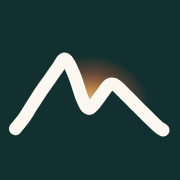
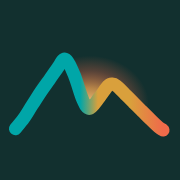
Pitons mark: line carries the ring's teal, gold and coral
Gradient along the line in the ring's order (teal Gros, gold saddle/Petit,
coral tail); deeper values on the cream header; halo over the hero photo.
Icons, share image and Foundations copies regenerated from the one drawing.

Changed region(s): [[0.0278, 0.2778, 0.9444, 0.7778]]

diff --git a/advisors/foundations/index.src.html b/advisors/foundations/index.src.html
@@ -57,12 +57,14 @@
     <a class="nav-brand" href="#top" aria-label="Saint Lucia Well Destination — home">
       <svg class="piton-mark" width="50.1" height="24" viewBox="0 0 96 46" aria-hidden="true" focusable="false">
         <defs>
-            <radialGradient id="pa-f1"><stop offset="0" stop-color="#FFD08A" stop-opacity=".95"/><stop offset=".35" stop-color="#F5A552" stop-opacity=".72"/><stop offset=".7" stop-color="#EF6A4A" stop-opacity=".3"/><stop offset="1" stop-color="#EF6A4A" stop-opacity="0"/></radialGradient>
-            <radialGradient id="ps-f1"><stop offset="0" stop-color="#FFF3D6"/><stop offset=".55" stop-color="#FFD68F" stop-opacity=".95"/><stop offset="1" stop-color="#F5A552" stop-opacity="0"/></radialGradient>
-            <clipPath id="pc-f1"><path d="M9.0 41.3 C9.7 40.4 11.9 37.9 13.4 35.8 C14.9 33.7 16.3 31.2 17.8 28.9 C19.3 26.7 20.7 24.3 22.2 22.1 C23.7 19.9 25.1 18.0 26.6 15.9 C28.1 13.8 29.6 11.5 31.0 9.6 C32.4 7.8 33.6 4.4 35.1 5.0 C36.6 5.6 38.3 9.8 39.8 13.3 C41.3 16.9 42.9 23.2 44.2 26.1 C45.5 29.0 46.3 30.9 47.8 30.7 C49.3 30.4 51.4 26.8 53.0 24.8 C54.6 22.8 56.3 20.0 57.4 18.9 C58.5 17.7 59.0 17.9 59.8 17.9 C60.5 17.9 60.7 17.9 61.8 18.8 C62.9 19.6 64.7 21.6 66.2 23.1 C67.7 24.5 69.1 26.1 70.6 27.5 C72.1 29.0 73.5 30.4 75.0 31.9 C76.5 33.3 77.9 34.8 79.4 36.2 C80.9 37.7 82.7 39.4 83.8 40.4 C84.9 41.4 85.8 41.7 86.2 42.0 L96 42 L96 0 L0 0 L0 41.3 Z"/></clipPath>
-          </defs>
-          <g clip-path="url(#pc-f1)"><g class="piton-sun"><ellipse class="piton-aura" cx="47.8" cy="29.099999999999998" rx="31" ry="26" fill="url(#pa-f1)"/><circle class="piton-disc" cx="47.8" cy="30.3" r="5.8" fill="url(#ps-f1)"/></g></g>
-          <path class="piton-line" d="M9.0 41.3 C9.7 40.4 11.9 37.9 13.4 35.8 C14.9 33.7 16.3 31.2 17.8 28.9 C19.3 26.7 20.7 24.3 22.2 22.1 C23.7 19.9 25.1 18.0 26.6 15.9 C28.1 13.8 29.6 11.5 31.0 9.6 C32.4 7.8 33.6 4.4 35.1 5.0 C36.6 5.6 38.3 9.8 39.8 13.3 C41.3 16.9 42.9 23.2 44.2 26.1 C45.5 29.0 46.3 30.9 47.8 30.7 C49.3 30.4 51.4 26.8 53.0 24.8 C54.6 22.8 56.3 20.0 57.4 18.9 C58.5 17.7 59.0 17.9 59.8 17.9 C60.5 17.9 60.7 17.9 61.8 18.8 C62.9 19.6 64.7 21.6 66.2 23.1 C67.7 24.5 69.1 26.1 70.6 27.5 C72.1 29.0 73.5 30.4 75.0 31.9 C76.5 33.3 77.9 34.8 79.4 36.2 C80.9 37.7 82.7 39.4 83.8 40.4 C84.9 41.4 85.8 41.7 86.2 42.0" pathLength="1" fill="none" stroke="currentColor" stroke-width="2.3" stroke-linejoin="round" stroke-linecap="round"/>
+    <linearGradient id="pl-f1" gradientUnits="userSpaceOnUse" x1="9" y1="0" x2="86" y2="0"><stop offset="0" style="stop-color:var(--piton-teal,#00A6A8)"/><stop offset=".44" style="stop-color:var(--piton-teal,#00A6A8)"/><stop offset=".56" style="stop-color:var(--piton-gold,#D9A03C)"/><stop offset=".78" style="stop-color:var(--piton-gold,#D9A03C)"/><stop offset="1" style="stop-color:var(--piton-coral,#EF6A4A)"/></linearGradient>
+  </defs><defs>
+    <radialGradient id="pa-f1"><stop offset="0" stop-color="#FFD08A" stop-opacity=".95"/><stop offset=".35" stop-color="#F5A552" stop-opacity=".72"/><stop offset=".7" stop-color="#EF6A4A" stop-opacity=".3"/><stop offset="1" stop-color="#EF6A4A" stop-opacity="0"/></radialGradient>
+    <radialGradient id="ps-f1"><stop offset="0" stop-color="#FFF3D6"/><stop offset=".55" stop-color="#FFD68F" stop-opacity=".95"/><stop offset="1" stop-color="#F5A552" stop-opacity="0"/></radialGradient>
+    <clipPath id="pc-f1"><path d="M9.0 41.3 C9.7 40.4 11.9 37.9 13.4 35.8 C14.9 33.7 16.3 31.2 17.8 28.9 C19.3 26.7 20.7 24.3 22.2 22.1 C23.7 19.9 25.1 18.0 26.6 15.9 C28.1 13.8 29.6 11.5 31.0 9.6 C32.4 7.8 33.6 4.4 35.1 5.0 C36.6 5.6 38.3 9.8 39.8 13.3 C41.3 16.9 42.9 23.2 44.2 26.1 C45.5 29.0 46.3 30.9 47.8 30.7 C49.3 30.4 51.4 26.8 53.0 24.8 C54.6 22.8 56.3 20.0 57.4 18.9 C58.5 17.7 59.0 17.9 59.8 17.9 C60.5 17.9 60.7 17.9 61.8 18.8 C62.9 19.6 64.7 21.6 66.2 23.1 C67.7 24.5 69.1 26.1 70.6 27.5 C72.1 29.0 73.5 30.4 75.0 31.9 C76.5 33.3 77.9 34.8 79.4 36.2 C80.9 37.7 82.7 39.4 83.8 40.4 C84.9 41.4 85.8 41.7 86.2 42.0 L96 42 L96 0 L0 0 L0 41.3 Z"/></clipPath>
+  </defs>
+  <g clip-path="url(#pc-f1)"><g class="piton-sun"><ellipse class="piton-aura" cx="47.8" cy="29.099999999999998" rx="31" ry="26" fill="url(#pa-f1)"/><circle class="piton-disc" cx="47.8" cy="30.3" r="5.8" fill="url(#ps-f1)"/></g></g>
+  <path class="piton-line" d="M9.0 41.3 C9.7 40.4 11.9 37.9 13.4 35.8 C14.9 33.7 16.3 31.2 17.8 28.9 C19.3 26.7 20.7 24.3 22.2 22.1 C23.7 19.9 25.1 18.0 26.6 15.9 C28.1 13.8 29.6 11.5 31.0 9.6 C32.4 7.8 33.6 4.4 35.1 5.0 C36.6 5.6 38.3 9.8 39.8 13.3 C41.3 16.9 42.9 23.2 44.2 26.1 C45.5 29.0 46.3 30.9 47.8 30.7 C49.3 30.4 51.4 26.8 53.0 24.8 C54.6 22.8 56.3 20.0 57.4 18.9 C58.5 17.7 59.0 17.9 59.8 17.9 C60.5 17.9 60.7 17.9 61.8 18.8 C62.9 19.6 64.7 21.6 66.2 23.1 C67.7 24.5 69.1 26.1 70.6 27.5 C72.1 29.0 73.5 30.4 75.0 31.9 C76.5 33.3 77.9 34.8 79.4 36.2 C80.9 37.7 82.7 39.4 83.8 40.4 C84.9 41.4 85.8 41.7 86.2 42.0" pathLength="1" fill="none" stroke="url(#pl-f1)" stroke-width="2.3" stroke-linejoin="round" stroke-linecap="round"/>
       </svg>
       <span>Saint Lucia <b>Well Destination</b></span>
     </a>
@@ -104,13 +106,15 @@
     <div class="hero-journeyline" aria-hidden="true">
       <svg class="piton-mark" width="83.5" height="40" viewBox="0 0 96 46" aria-hidden="true" focusable="false">
         <defs>
-            <radialGradient id="pa-f2"><stop offset="0" stop-color="#FFD08A" stop-opacity=".95"/><stop offset=".35" stop-color="#F5A552" stop-opacity=".72"/><stop offset=".7" stop-color="#EF6A4A" stop-opacity=".3"/><stop offset="1" stop-color="#EF6A4A" stop-opacity="0"/></radialGradient>
-            <radialGradient id="ps-f2"><stop offset="0" stop-color="#FFF3D6"/><stop offset=".55" stop-color="#FFD68F" stop-opacity=".95"/><stop offset="1" stop-color="#F5A552" stop-opacity="0"/></radialGradient>
-            <clipPath id="pc-f2"><path d="M9.0 41.3 C9.7 40.4 11.9 37.9 13.4 35.8 C14.9 33.7 16.3 31.2 17.8 28.9 C19.3 26.7 20.7 24.3 22.2 22.1 C23.7 19.9 25.1 18.0 26.6 15.9 C28.1 13.8 29.6 11.5 31.0 9.6 C32.4 7.8 33.6 4.4 35.1 5.0 C36.6 5.6 38.3 9.8 39.8 13.3 C41.3 16.9 42.9 23.2 44.2 26.1 C45.5 29.0 46.3 30.9 47.8 30.7 C49.3 30.4 51.4 26.8 53.0 24.8 C54.6 22.8 56.3 20.0 57.4 18.9 C58.5 17.7 59.0 17.9 59.8 17.9 C60.5 17.9 60.7 17.9 61.8 18.8 C62.9 19.6 64.7 21.6 66.2 23.1 C67.7 24.5 69.1 26.1 70.6 27.5 C72.1 29.0 73.5 30.4 75.0 31.9 C76.5 33.3 77.9 34.8 79.4 36.2 C80.9 37.7 82.7 39.4 83.8 40.4 C84.9 41.4 85.8 41.7 86.2 42.0 L96 42 L96 0 L0 0 L0 41.3 Z"/></clipPath>
-          </defs>
-          <g clip-path="url(#pc-f2)"><g class="piton-sun"><ellipse class="piton-aura" cx="47.8" cy="29.099999999999998" rx="31" ry="26" fill="url(#pa-f2)"/><circle class="piton-disc" cx="47.8" cy="30.3" r="5.8" fill="url(#ps-f2)"/></g></g>
-          <path class="piton-glow" d="M9.0 41.3 C9.7 40.4 11.9 37.9 13.4 35.8 C14.9 33.7 16.3 31.2 17.8 28.9 C19.3 26.7 20.7 24.3 22.2 22.1 C23.7 19.9 25.1 18.0 26.6 15.9 C28.1 13.8 29.6 11.5 31.0 9.6 C32.4 7.8 33.6 4.4 35.1 5.0 C36.6 5.6 38.3 9.8 39.8 13.3 C41.3 16.9 42.9 23.2 44.2 26.1 C45.5 29.0 46.3 30.9 47.8 30.7 C49.3 30.4 51.4 26.8 53.0 24.8 C54.6 22.8 56.3 20.0 57.4 18.9 C58.5 17.7 59.0 17.9 59.8 17.9 C60.5 17.9 60.7 17.9 61.8 18.8 C62.9 19.6 64.7 21.6 66.2 23.1 C67.7 24.5 69.1 26.1 70.6 27.5 C72.1 29.0 73.5 30.4 75.0 31.9 C76.5 33.3 77.9 34.8 79.4 36.2 C80.9 37.7 82.7 39.4 83.8 40.4 C84.9 41.4 85.8 41.7 86.2 42.0" pathLength="1" fill="none" stroke="#D9A03C" stroke-width="4.8" stroke-linejoin="round" stroke-linecap="round"/>
-          <path class="piton-line" d="M9.0 41.3 C9.7 40.4 11.9 37.9 13.4 35.8 C14.9 33.7 16.3 31.2 17.8 28.9 C19.3 26.7 20.7 24.3 22.2 22.1 C23.7 19.9 25.1 18.0 26.6 15.9 C28.1 13.8 29.6 11.5 31.0 9.6 C32.4 7.8 33.6 4.4 35.1 5.0 C36.6 5.6 38.3 9.8 39.8 13.3 C41.3 16.9 42.9 23.2 44.2 26.1 C45.5 29.0 46.3 30.9 47.8 30.7 C49.3 30.4 51.4 26.8 53.0 24.8 C54.6 22.8 56.3 20.0 57.4 18.9 C58.5 17.7 59.0 17.9 59.8 17.9 C60.5 17.9 60.7 17.9 61.8 18.8 C62.9 19.6 64.7 21.6 66.2 23.1 C67.7 24.5 69.1 26.1 70.6 27.5 C72.1 29.0 73.5 30.4 75.0 31.9 C76.5 33.3 77.9 34.8 79.4 36.2 C80.9 37.7 82.7 39.4 83.8 40.4 C84.9 41.4 85.8 41.7 86.2 42.0" pathLength="1" fill="none" stroke="currentColor" stroke-width="2" stroke-linejoin="round" stroke-linecap="round"/>
+    <linearGradient id="pl-f2" gradientUnits="userSpaceOnUse" x1="9" y1="0" x2="86" y2="0"><stop offset="0" style="stop-color:var(--piton-teal,#00A6A8)"/><stop offset=".44" style="stop-color:var(--piton-teal,#00A6A8)"/><stop offset=".56" style="stop-color:var(--piton-gold,#D9A03C)"/><stop offset=".78" style="stop-color:var(--piton-gold,#D9A03C)"/><stop offset="1" style="stop-color:var(--piton-coral,#EF6A4A)"/></linearGradient>
+  </defs><defs>
+    <radialGradient id="pa-f2"><stop offset="0" stop-color="#FFD08A" stop-opacity=".95"/><stop offset=".35" stop-color="#F5A552" stop-opacity=".72"/><stop offset=".7" stop-color="#EF6A4A" stop-opacity=".3"/><stop offset="1" stop-color="#EF6A4A" stop-opacity="0"/></radialGradient>
+    <radialGradient id="ps-f2"><stop offset="0" stop-color="#FFF3D6"/><stop offset=".55" stop-color="#FFD68F" stop-opacity=".95"/><stop offset="1" stop-color="#F5A552" stop-opacity="0"/></radialGradient>
+    <clipPath id="pc-f2"><path d="M9.0 41.3 C9.7 40.4 11.9 37.9 13.4 35.8 C14.9 33.7 16.3 31.2 17.8 28.9 C19.3 26.7 20.7 24.3 22.2 22.1 C23.7 19.9 25.1 18.0 26.6 15.9 C28.1 13.8 29.6 11.5 31.0 9.6 C32.4 7.8 33.6 4.4 35.1 5.0 C36.6 5.6 38.3 9.8 39.8 13.3 C41.3 16.9 42.9 23.2 44.2 26.1 C45.5 29.0 46.3 30.9 47.8 30.7 C49.3 30.4 51.4 26.8 53.0 24.8 C54.6 22.8 56.3 20.0 57.4 18.9 C58.5 17.7 59.0 17.9 59.8 17.9 C60.5 17.9 60.7 17.9 61.8 18.8 C62.9 19.6 64.7 21.6 66.2 23.1 C67.7 24.5 69.1 26.1 70.6 27.5 C72.1 29.0 73.5 30.4 75.0 31.9 C76.5 33.3 77.9 34.8 79.4 36.2 C80.9 37.7 82.7 39.4 83.8 40.4 C84.9 41.4 85.8 41.7 86.2 42.0 L96 42 L96 0 L0 0 L0 41.3 Z"/></clipPath>
+  </defs>
+  <g clip-path="url(#pc-f2)"><g class="piton-sun"><ellipse class="piton-aura" cx="47.8" cy="29.099999999999998" rx="31" ry="26" fill="url(#pa-f2)"/><circle class="piton-disc" cx="47.8" cy="30.3" r="5.8" fill="url(#ps-f2)"/></g></g>
+  <path class="piton-glow" d="M9.0 41.3 C9.7 40.4 11.9 37.9 13.4 35.8 C14.9 33.7 16.3 31.2 17.8 28.9 C19.3 26.7 20.7 24.3 22.2 22.1 C23.7 19.9 25.1 18.0 26.6 15.9 C28.1 13.8 29.6 11.5 31.0 9.6 C32.4 7.8 33.6 4.4 35.1 5.0 C36.6 5.6 38.3 9.8 39.8 13.3 C41.3 16.9 42.9 23.2 44.2 26.1 C45.5 29.0 46.3 30.9 47.8 30.7 C49.3 30.4 51.4 26.8 53.0 24.8 C54.6 22.8 56.3 20.0 57.4 18.9 C58.5 17.7 59.0 17.9 59.8 17.9 C60.5 17.9 60.7 17.9 61.8 18.8 C62.9 19.6 64.7 21.6 66.2 23.1 C67.7 24.5 69.1 26.1 70.6 27.5 C72.1 29.0 73.5 30.4 75.0 31.9 C76.5 33.3 77.9 34.8 79.4 36.2 C80.9 37.7 82.7 39.4 83.8 40.4 C84.9 41.4 85.8 41.7 86.2 42.0" pathLength="1" fill="none" stroke="#D9A03C" stroke-width="4.8" stroke-linejoin="round" stroke-linecap="round"/>
+  <path class="piton-line" d="M9.0 41.3 C9.7 40.4 11.9 37.9 13.4 35.8 C14.9 33.7 16.3 31.2 17.8 28.9 C19.3 26.7 20.7 24.3 22.2 22.1 C23.7 19.9 25.1 18.0 26.6 15.9 C28.1 13.8 29.6 11.5 31.0 9.6 C32.4 7.8 33.6 4.4 35.1 5.0 C36.6 5.6 38.3 9.8 39.8 13.3 C41.3 16.9 42.9 23.2 44.2 26.1 C45.5 29.0 46.3 30.9 47.8 30.7 C49.3 30.4 51.4 26.8 53.0 24.8 C54.6 22.8 56.3 20.0 57.4 18.9 C58.5 17.7 59.0 17.9 59.8 17.9 C60.5 17.9 60.7 17.9 61.8 18.8 C62.9 19.6 64.7 21.6 66.2 23.1 C67.7 24.5 69.1 26.1 70.6 27.5 C72.1 29.0 73.5 30.4 75.0 31.9 C76.5 33.3 77.9 34.8 79.4 36.2 C80.9 37.7 82.7 39.4 83.8 40.4 C84.9 41.4 85.8 41.7 86.2 42.0" pathLength="1" fill="none" stroke="url(#pl-f2)" stroke-width="2" stroke-linejoin="round" stroke-linecap="round"/>
       </svg>
       <div class="thread"></div>
       <p class="hero-coords">13°54′N&nbsp;&nbsp;60°58′W</p>
@@ -982,12 +986,14 @@
         <div class="footer-brand-mark">
           <svg class="piton-mark" width="58.4" height="28" viewBox="0 0 96 46" aria-hidden="true" focusable="false">
         <defs>
-            <radialGradient id="pa-f3"><stop offset="0" stop-color="#FFD08A" stop-opacity=".95"/><stop offset=".35" stop-color="#F5A552" stop-opacity=".72"/><stop offset=".7" stop-color="#EF6A4A" stop-opacity=".3"/><stop offset="1" stop-color="#EF6A4A" stop-opacity="0"/></radialGradient>
-            <radialGradient id="ps-f3"><stop offset="0" stop-color="#FFF3D6"/><stop offset=".55" stop-color="#FFD68F" stop-opacity=".95"/><stop offset="1" stop-color="#F5A552" stop-opacity="0"/></radialGradient>
-            <clipPath id="pc-f3"><path d="M9.0 41.3 C9.7 40.4 11.9 37.9 13.4 35.8 C14.9 33.7 16.3 31.2 17.8 28.9 C19.3 26.7 20.7 24.3 22.2 22.1 C23.7 19.9 25.1 18.0 26.6 15.9 C28.1 13.8 29.6 11.5 31.0 9.6 C32.4 7.8 33.6 4.4 35.1 5.0 C36.6 5.6 38.3 9.8 39.8 13.3 C41.3 16.9 42.9 23.2 44.2 26.1 C45.5 29.0 46.3 30.9 47.8 30.7 C49.3 30.4 51.4 26.8 53.0 24.8 C54.6 22.8 56.3 20.0 57.4 18.9 C58.5 17.7 59.0 17.9 59.8 17.9 C60.5 17.9 60.7 17.9 61.8 18.8 C62.9 19.6 64.7 21.6 66.2 23.1 C67.7 24.5 69.1 26.1 70.6 27.5 C72.1 29.0 73.5 30.4 75.0 31.9 C76.5 33.3 77.9 34.8 79.4 36.2 C80.9 37.7 82.7 39.4 83.8 40.4 C84.9 41.4 85.8 41.7 86.2 42.0 L96 42 L96 0 L0 0 L0 41.3 Z"/></clipPath>
-          </defs>
-          <g clip-path="url(#pc-f3)"><g class="piton-sun"><ellipse class="piton-aura" cx="47.8" cy="29.099999999999998" rx="31" ry="26" fill="url(#pa-f3)"/><circle class="piton-disc" cx="47.8" cy="30.3" r="5.8" fill="url(#ps-f3)"/></g></g>
-          <path class="piton-line" d="M9.0 41.3 C9.7 40.4 11.9 37.9 13.4 35.8 C14.9 33.7 16.3 31.2 17.8 28.9 C19.3 26.7 20.7 24.3 22.2 22.1 C23.7 19.9 25.1 18.0 26.6 15.9 C28.1 13.8 29.6 11.5 31.0 9.6 C32.4 7.8 33.6 4.4 35.1 5.0 C36.6 5.6 38.3 9.8 39.8 13.3 C41.3 16.9 42.9 23.2 44.2 26.1 C45.5 29.0 46.3 30.9 47.8 30.7 C49.3 30.4 51.4 26.8 53.0 24.8 C54.6 22.8 56.3 20.0 57.4 18.9 C58.5 17.7 59.0 17.9 59.8 17.9 C60.5 17.9 60.7 17.9 61.8 18.8 C62.9 19.6 64.7 21.6 66.2 23.1 C67.7 24.5 69.1 26.1 70.6 27.5 C72.1 29.0 73.5 30.4 75.0 31.9 C76.5 33.3 77.9 34.8 79.4 36.2 C80.9 37.7 82.7 39.4 83.8 40.4 C84.9 41.4 85.8 41.7 86.2 42.0" pathLength="1" fill="none" stroke="currentColor" stroke-width="2.3" stroke-linejoin="round" stroke-linecap="round"/>
+    <linearGradient id="pl-f3" gradientUnits="userSpaceOnUse" x1="9" y1="0" x2="86" y2="0"><stop offset="0" style="stop-color:var(--piton-teal,#00A6A8)"/><stop offset=".44" style="stop-color:var(--piton-teal,#00A6A8)"/><stop offset=".56" style="stop-color:var(--piton-gold,#D9A03C)"/><stop offset=".78" style="stop-color:var(--piton-gold,#D9A03C)"/><stop offset="1" style="stop-color:var(--piton-coral,#EF6A4A)"/></linearGradient>
+  </defs><defs>
+    <radialGradient id="pa-f3"><stop offset="0" stop-color="#FFD08A" stop-opacity=".95"/><stop offset=".35" stop-color="#F5A552" stop-opacity=".72"/><stop offset=".7" stop-color="#EF6A4A" stop-opacity=".3"/><stop offset="1" stop-color="#EF6A4A" stop-opacity="0"/></radialGradient>
+    <radialGradient id="ps-f3"><stop offset="0" stop-color="#FFF3D6"/><stop offset=".55" stop-color="#FFD68F" stop-opacity=".95"/><stop offset="1" stop-color="#F5A552" stop-opacity="0"/></radialGradient>
+    <clipPath id="pc-f3"><path d="M9.0 41.3 C9.7 40.4 11.9 37.9 13.4 35.8 C14.9 33.7 16.3 31.2 17.8 28.9 C19.3 26.7 20.7 24.3 22.2 22.1 C23.7 19.9 25.1 18.0 26.6 15.9 C28.1 13.8 29.6 11.5 31.0 9.6 C32.4 7.8 33.6 4.4 35.1 5.0 C36.6 5.6 38.3 9.8 39.8 13.3 C41.3 16.9 42.9 23.2 44.2 26.1 C45.5 29.0 46.3 30.9 47.8 30.7 C49.3 30.4 51.4 26.8 53.0 24.8 C54.6 22.8 56.3 20.0 57.4 18.9 C58.5 17.7 59.0 17.9 59.8 17.9 C60.5 17.9 60.7 17.9 61.8 18.8 C62.9 19.6 64.7 21.6 66.2 23.1 C67.7 24.5 69.1 26.1 70.6 27.5 C72.1 29.0 73.5 30.4 75.0 31.9 C76.5 33.3 77.9 34.8 79.4 36.2 C80.9 37.7 82.7 39.4 83.8 40.4 C84.9 41.4 85.8 41.7 86.2 42.0 L96 42 L96 0 L0 0 L0 41.3 Z"/></clipPath>
+  </defs>
+  <g clip-path="url(#pc-f3)"><g class="piton-sun"><ellipse class="piton-aura" cx="47.8" cy="29.099999999999998" rx="31" ry="26" fill="url(#pa-f3)"/><circle class="piton-disc" cx="47.8" cy="30.3" r="5.8" fill="url(#ps-f3)"/></g></g>
+  <path class="piton-line" d="M9.0 41.3 C9.7 40.4 11.9 37.9 13.4 35.8 C14.9 33.7 16.3 31.2 17.8 28.9 C19.3 26.7 20.7 24.3 22.2 22.1 C23.7 19.9 25.1 18.0 26.6 15.9 C28.1 13.8 29.6 11.5 31.0 9.6 C32.4 7.8 33.6 4.4 35.1 5.0 C36.6 5.6 38.3 9.8 39.8 13.3 C41.3 16.9 42.9 23.2 44.2 26.1 C45.5 29.0 46.3 30.9 47.8 30.7 C49.3 30.4 51.4 26.8 53.0 24.8 C54.6 22.8 56.3 20.0 57.4 18.9 C58.5 17.7 59.0 17.9 59.8 17.9 C60.5 17.9 60.7 17.9 61.8 18.8 C62.9 19.6 64.7 21.6 66.2 23.1 C67.7 24.5 69.1 26.1 70.6 27.5 C72.1 29.0 73.5 30.4 75.0 31.9 C76.5 33.3 77.9 34.8 79.4 36.2 C80.9 37.7 82.7 39.4 83.8 40.4 C84.9 41.4 85.8 41.7 86.2 42.0" pathLength="1" fill="none" stroke="url(#pl-f3)" stroke-width="2.3" stroke-linejoin="round" stroke-linecap="round"/>
       </svg>
           <p class="wordmark">Saint Lucia <b>Well&nbsp;Destination</b></p>
         </div>

diff --git a/lib/brand.js b/lib/brand.js
@@ -46,8 +46,10 @@ const esc = (s) => String(s)
    with the sun half set into the valley — it never shows through the peaks. The
    clip is the outline closed off along the top edge. Nothing has a hard edge.
 
-   THE LINE IS currentColor: ink on the cream header, paper on every dark surface,
-   no per-placement colour logic. The light is fixed warm colour. The viewBox is
+   THE LINE CARRIES THE OLD RING'S COLOURS in the ring's order: teal along Gros, gold
+   through the saddle and up Petit, warming to coral in the long tail. Stops read
+   --piton-teal/-gold/-coral (brand values by default); the cream header sets deeper
+   values so the line keeps 3:1 there. The light is fixed warm colour. The viewBox is
    96 x 46 (2.09:1); `height` is the argument callers care about. Stroke is 2.3
    user units below 30px tall and 2.0 above.
 
@@ -69,10 +71,13 @@ const PITON_SKY = PITON_PATH + ' L96 42 L96 0 L0 0 L0 41.3 Z';
 
 /* Everything inside the <svg>, with the line in `color`. Shared by the page marks,
    the favicon tiles and the share image so they cannot drift. */
-function pitonsMarkInner(uid, { stroke = 2.3, color = 'currentColor', animate = false, sun = true } = {}) {
+function pitonsMarkInner(uid, { stroke = 2.3, color, animate = false, sun = true } = {}) {
   const [vx, vy] = PITON_VALLEY;
   const id = (k) => k + uid;
-  return `${
+  const line = color || `url(#${id('pl')})`;
+  return `<defs>
+    <linearGradient id="${id('pl')}" gradientUnits="userSpaceOnUse" x1="9" y1="0" x2="86" y2="0"><stop offset="0" style="stop-color:var(--piton-teal,#00A6A8)"/><stop offset=".44" style="stop-color:var(--piton-teal,#00A6A8)"/><stop offset=".56" style="stop-color:var(--piton-gold,#D9A03C)"/><stop offset=".78" style="stop-color:var(--piton-gold,#D9A03C)"/><stop offset="1" style="stop-color:var(--piton-coral,#EF6A4A)"/></linearGradient>
+  </defs>${
     sun ? `<defs>
     <radialGradient id="${id('pa')}"><stop offset="0" stop-color="#FFD08A" stop-opacity=".95"/><stop offset=".35" stop-color="#F5A552" stop-opacity=".72"/><stop offset=".7" stop-color="#EF6A4A" stop-opacity=".3"/><stop offset="1" stop-color="#EF6A4A" stop-opacity="0"/></radialGradient>
     <radialGradient id="${id('ps')}"><stop offset="0" stop-color="#FFF3D6"/><stop offset=".55" stop-color="#FFD68F" stop-opacity=".95"/><stop offset="1" stop-color="#F5A552" stop-opacity="0"/></radialGradient>
@@ -81,7 +86,7 @@ function pitonsMarkInner(uid, { stroke = 2.3, color = 'currentColor', animate = 
   <g clip-path="url(#${id('pc')})"><g class="piton-sun"><ellipse class="piton-aura" cx="${vx}" cy="${vy - 1.6}" rx="31" ry="26" fill="url(#${id('pa')})"/><circle class="piton-disc" cx="${vx}" cy="${vy - 0.4}" r="5.8" fill="url(#${id('ps')})"/></g></g>` : ''}${
     animate ? `
   <path class="piton-glow" d="${PITON_PATH}" pathLength="1" fill="none" stroke="#D9A03C" stroke-width="${stroke * 2.4}" stroke-linejoin="round" stroke-linecap="round"/>` : ''}
-  <path class="piton-line" d="${PITON_PATH}" pathLength="1" fill="none" stroke="${color}" stroke-width="${stroke}" stroke-linejoin="round" stroke-linecap="round"/>`;
+  <path class="piton-line" d="${PITON_PATH}" pathLength="1" fill="none" stroke="${line}" stroke-width="${stroke}" stroke-linejoin="round" stroke-linecap="round"/>`;
 }
 
 let pitonSeq = 0;

diff --git a/tools/brand-test.js b/tools/brand-test.js
@@ -92,8 +92,9 @@ ok('a conversion-layout page has the mark in header and footer', /piton-mark/.te
 ok('the Eclipse mark is untouched (a separate identity)', /eclipse-mark/.test(by('/eclipse')));
 ok('the Foundations hero mark is the Pitons mark, with its glow layer',
    /hero-journeyline[\s\S]{0,4000}piton-glow/.test(by('/advisors/foundations')));
-ok('the line is currentColor (so it is right on any surface) with round joins and caps — softened, not mitred',
-   /class="piton-line"[^>]*stroke="currentColor"[^>]*stroke-linejoin="round" stroke-linecap="round"/.test(home));
+ok('the line carries the old ring colours (teal→gold→coral gradient) with round joins and caps — softened, not mitred',
+   /class="piton-line"[^>]*stroke="url\(#pl-[^"]*\)"[^>]*stroke-linejoin="round" stroke-linecap="round"/.test(home)
+   && /id="pl-[^"]*"[^>]*>[\s\S]{0,700}#00A6A8[\s\S]{0,300}#D9A03C[\s\S]{0,300}#EF6A4A/.test(home));
 ok('the light is golden-hour glow (gold core, amber, coral falloff), not a dot',
    /class="piton-aura"[^>]*fill="url\(#pa-[\w-]+\)"/.test(home) && /class="piton-disc"[^>]*fill="url\(#ps-[\w-]+\)"/.test(home)
      && /<radialGradient[\s\S]{0,500}#FFD08A[\s\S]{0,300}#EF6A4A/.test(home)

diff --git a/css/chrome.css b/css/chrome.css
@@ -253,6 +253,10 @@
    only once js/site.js confirms it is running. Getting this the other way round
    is how you end up shipping paper-coloured nav links on a paper background. */
 .site-header {
+  /* Pitons line colours, deepened for contrast on the cream bar. */
+  --piton-teal: #00868A;
+  --piton-gold: #B87A12;
+  --piton-coral: #D8512F;
   position: relative;
   z-index: 100;
   background: rgba(251, 248, 241, 0.92);
@@ -274,6 +278,13 @@ body[data-enhanced="true"][data-hero="dark"] .site-header[data-at-top="true"] {
   backdrop-filter: none;
   border-bottom-color: transparent;
   color: var(--paper);
+  --piton-teal: #00A6A8;
+  --piton-gold: #D9A03C;
+  --piton-coral: #EF6A4A;
+}
+/* Over the hero photograph the coloured line needs a dark ground to hold against foliage. */
+body[data-enhanced="true"][data-hero="dark"] .site-header[data-at-top="true"] .piton-mark {
+  filter: drop-shadow(0 0 3px rgba(8, 28, 30, 0.7)) drop-shadow(0 0 1px rgba(8, 28, 30, 0.6));
 }
 
 .nav {

diff --git a/tools/build-brand-marks.py b/tools/build-brand-marks.py
@@ -30,10 +30,10 @@ INK = '#12302F'       # --ink: the deep tile colour, matching the supplied artwo
 PAPER = '#FBF8F1'     # --paper
 
 
-def mark_inner(uid, stroke, color):
+def mark_inner(uid, stroke, color=None):
     """The mark's markup from lib/brand.js, so there is one drawing."""
     js = ("const b=require('./lib/brand.js');"
-          f"console.log(b.pitonsMarkInner('{uid}',{{stroke:{stroke},color:'{color}'}}))")
+          f"console.log(b.pitonsMarkInner('{uid}',{{stroke:{stroke}{(',color:' + repr(color)) if color else ''}}}))")
     return subprocess.run(['node', '-e', js], cwd=ROOT, check=True, capture_output=True, text=True).stdout
 
 
@@ -43,7 +43,7 @@ def tile_svg(rounded=True, scale=0.37):
     tx = 16 - 48 * scale
     ty = 17 - 24 * scale
     rx = ' rx="7"' if rounded else ''
-    inner = mark_inner('-t', round(2.3 / scale, 2), PAPER)
+    inner = mark_inner('-t', round(2.3 / scale, 2))
     return f'''<svg xmlns="http://www.w3.org/2000/svg" viewBox="0 0 32 32">
   <rect width="32" height="32"{rx} fill="{INK}"/>
   <g transform="translate({tx:.2f} {ty:.2f}) scale({scale})">
@@ -95,7 +95,7 @@ def render_og():
     out = os.path.join(ROOT, 'assets', 'og-default.jpg')
     tmp = out + '.png'
     mark = ('<svg width="118" height="56" viewBox="0 0 96 46" aria-hidden="true">'
-            + mark_inner('-og', 2.2, PAPER) + '</svg>')
+            + mark_inner('-og', 2.2) + '</svg>')
     with open(src, encoding='utf8') as f:
         html = f.read().replace('{{MARK}}', mark)
     with open(built, 'w', encoding='utf8') as f:

diff --git a/README.md b/README.md
@@ -199,8 +199,10 @@ mountains with the sun half set into the valley; it never shows through the peak
 Nothing has a hard edge. The brand rule stands: full-saturation colour belongs to
 this mark.
 
-The line is `currentColor` (ink on the cream header, paper on dark), so there is no
-per-placement colour logic; the light is fixed warm colour. `pitonsMark({ height,
+The line carries the old ring's colours in the ring's order: teal along Gros, gold
+through the saddle and up Petit, coral at the tip of the long tail (a gradient reading
+`--piton-teal/-gold/-coral`; the cream header sets deeper values to keep 3:1). The
+light is fixed warm colour. `pitonsMark({ height,
 animate, breathe, sun })` is the entry point (viewBox 96 x 46); `pitonsMarkInner` is
 the same drawing without the wrapper, used by the favicons and the share image.
 Every mark needs its own gradient/clip ids (ids are document-wide), hence the counter
